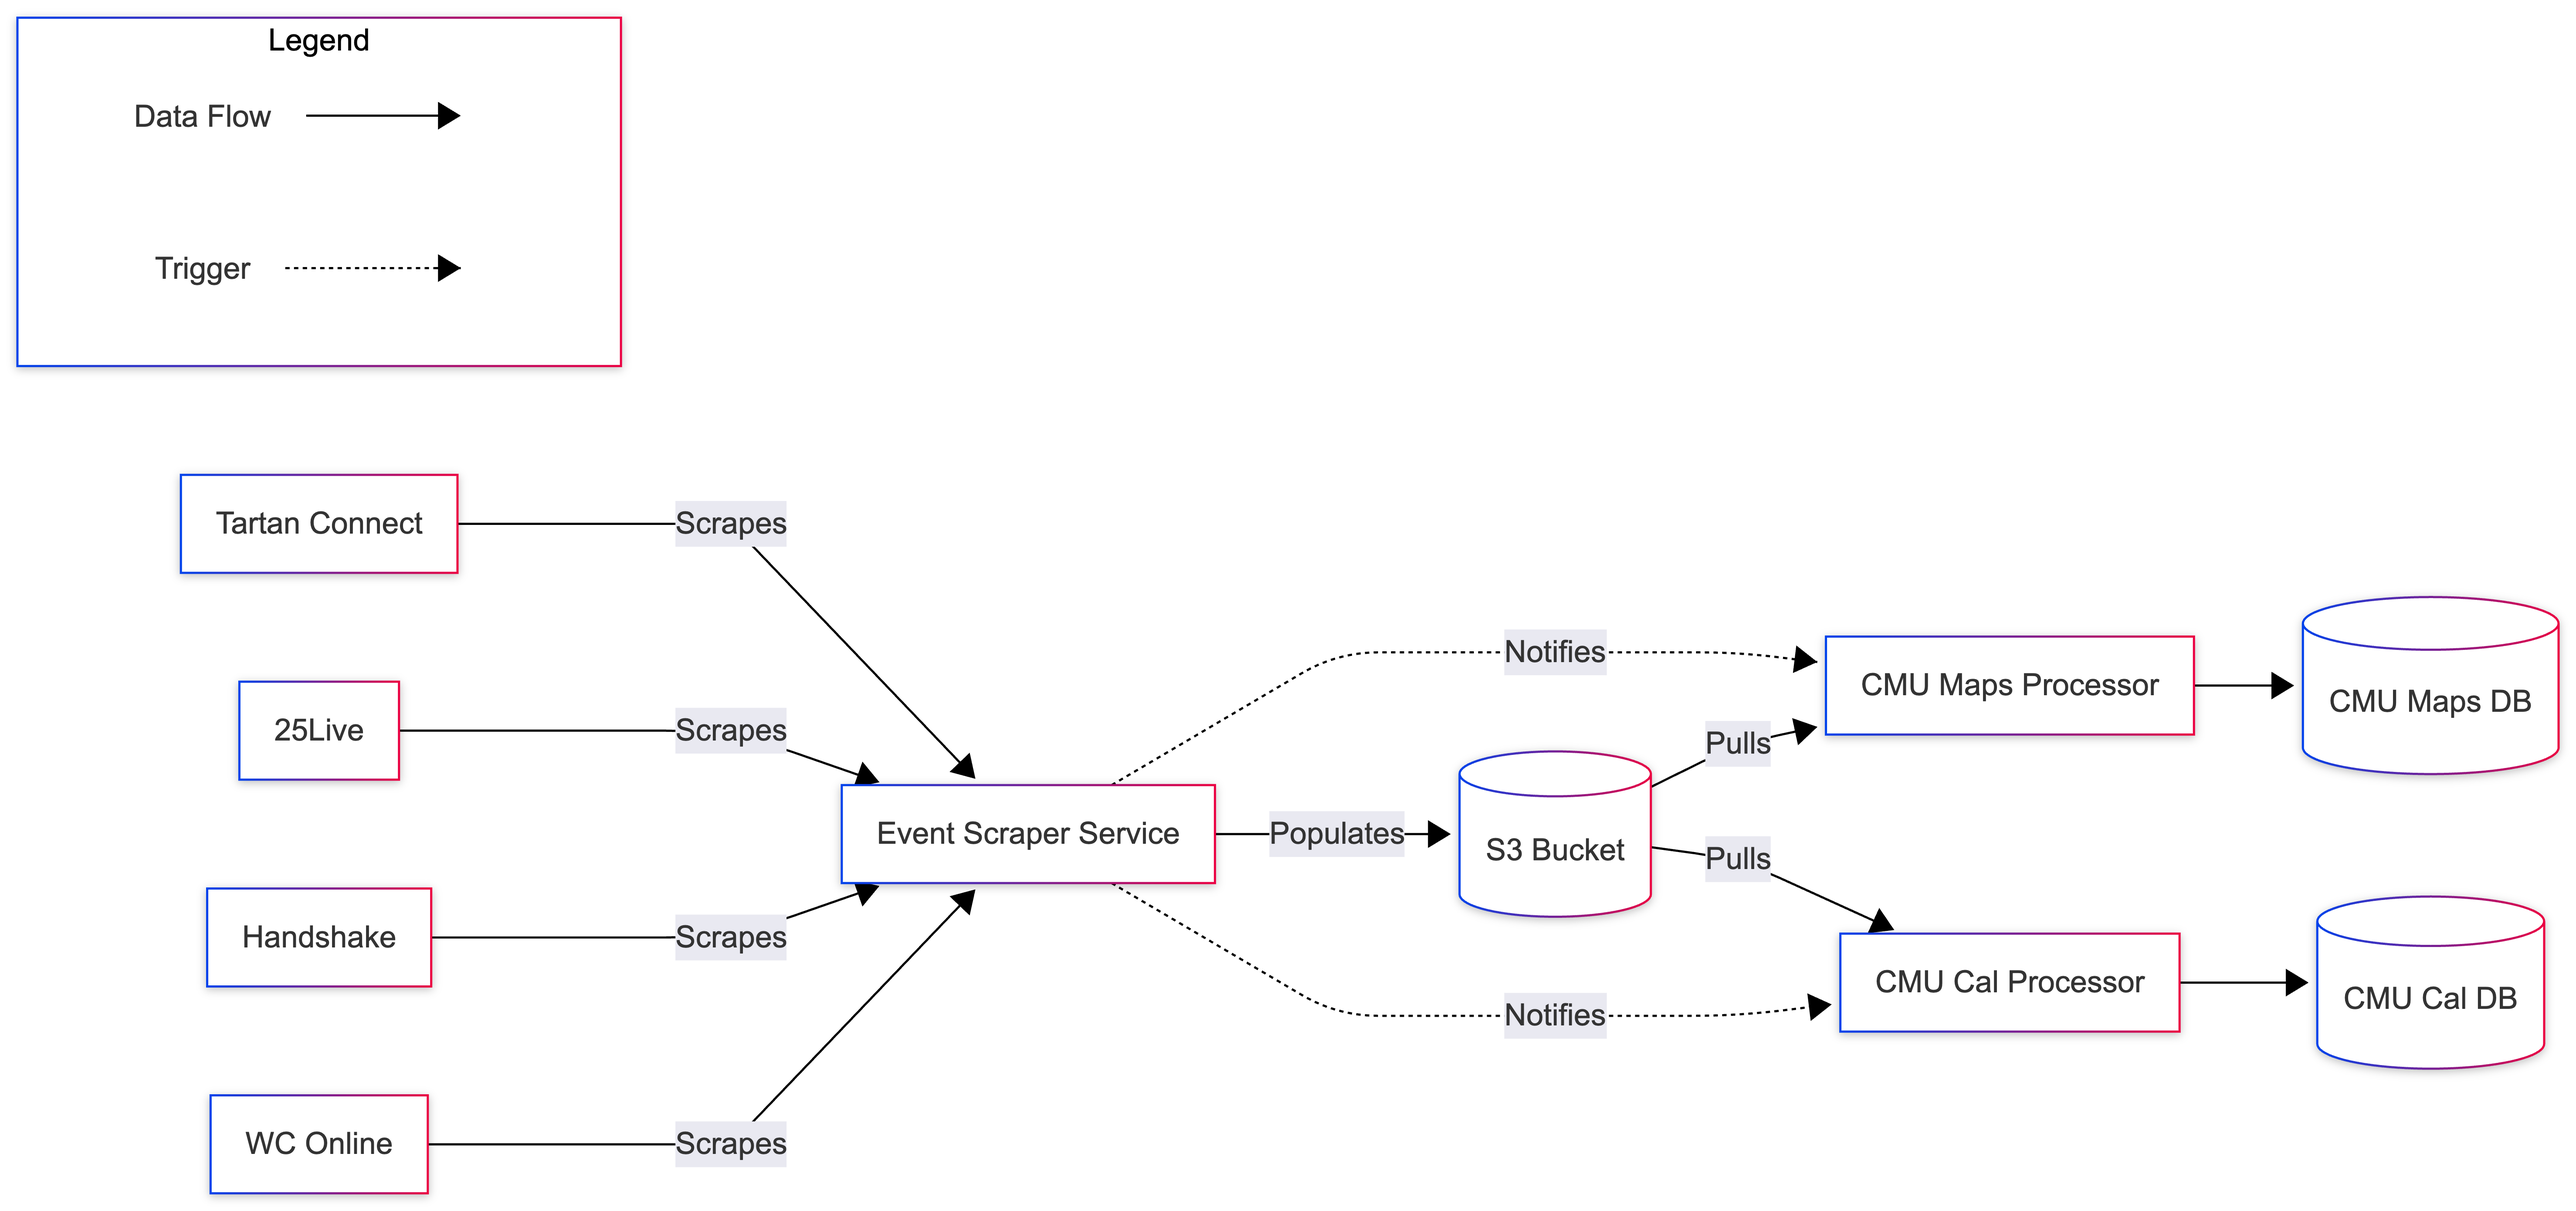
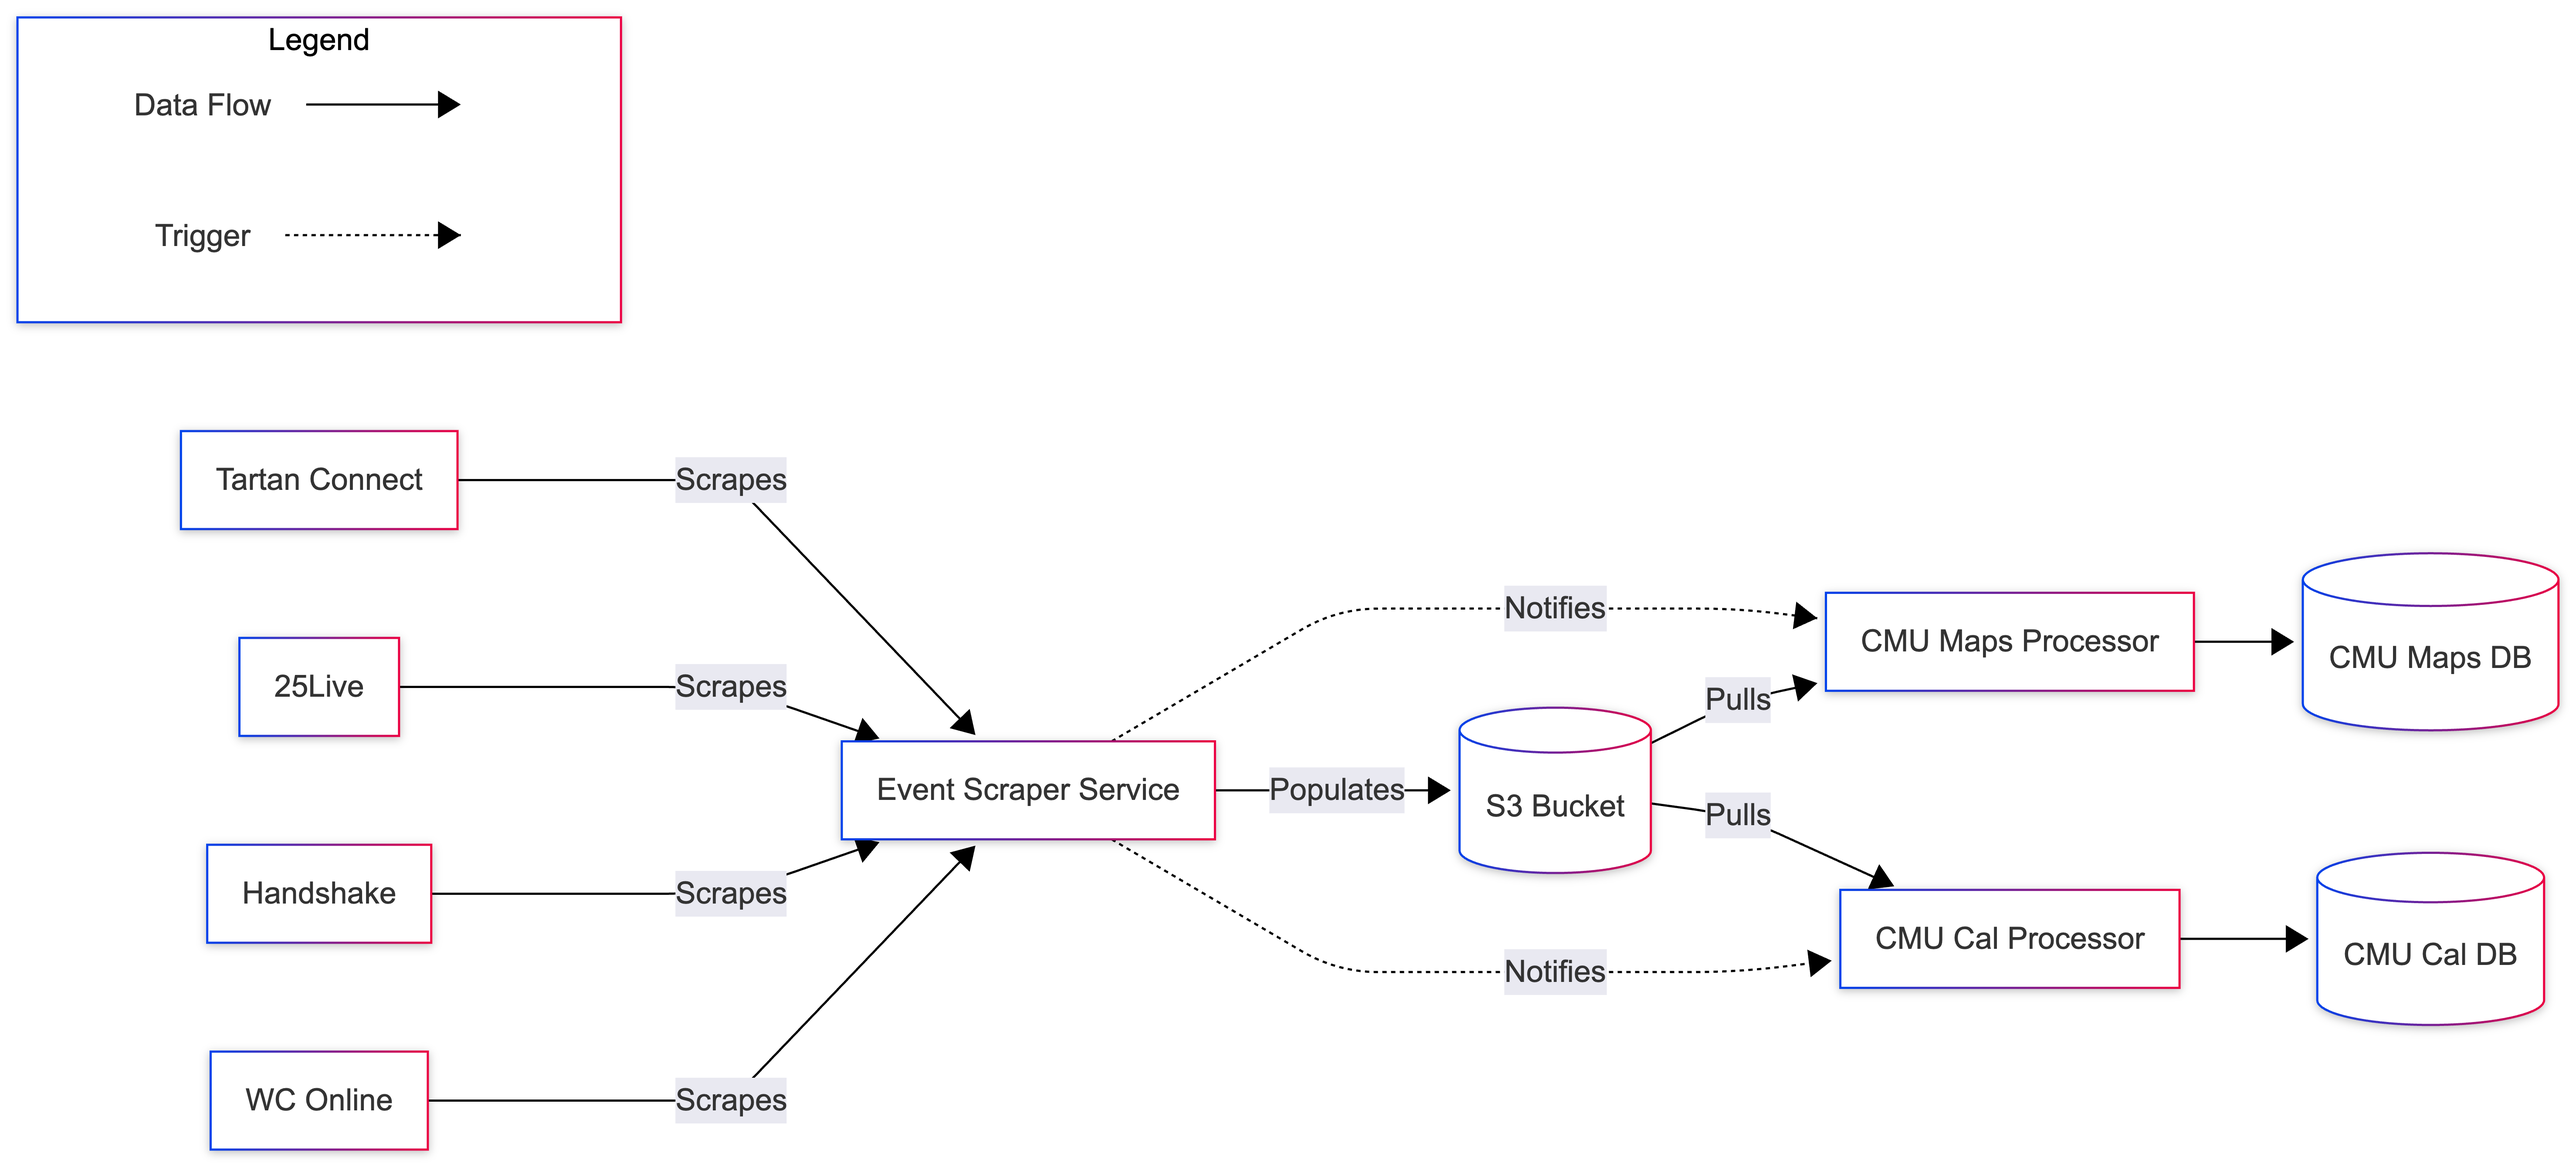
docs: decrease spacing in legend
Really hope I could use nodeSpacing in a subgraph for this...

diff --git a/README.md b/README.md
@@ -8,10 +8,11 @@ The Event Scraper service scrape data and upload them to S3 bucket from the foll
 
 Then the Event Scraper service notifies the Railway services defined in the `NOTIF_CONFIG` environment variable to restart their deployments, which are responsible for pulling the data from S3 bucket and processing them.
 
-## Event Scraper System Design
+## System Design
 
 ![System Design Diagram](./docs/system-design.png)
-*You can regenerate the diagram by pasting the [code](./docs/system-design.txt) into [Mermaid](https://www.mermaidchart.com/play).*
+*You can regenerate this diagram by pasting the [linked code](./docs/system-design.txt)
+into [Mermaid](https://www.mermaidchart.com/play).*
 
 ## Accessing the Scraped Data
 
